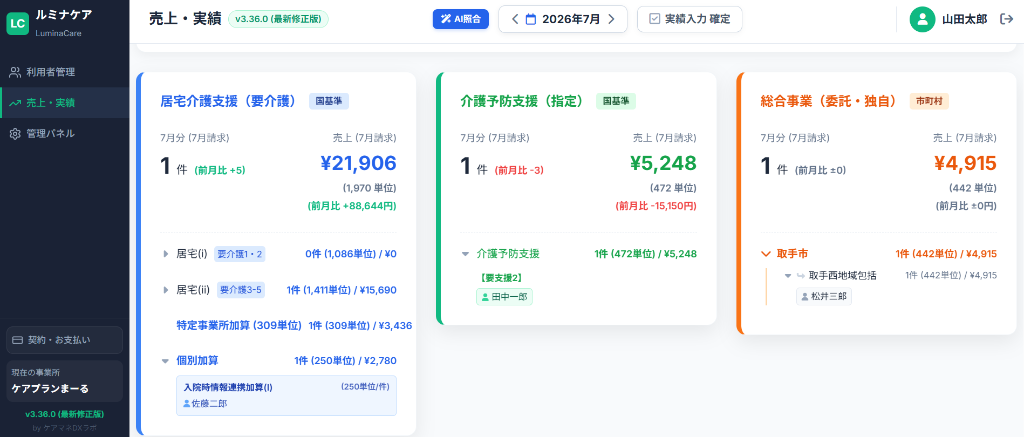
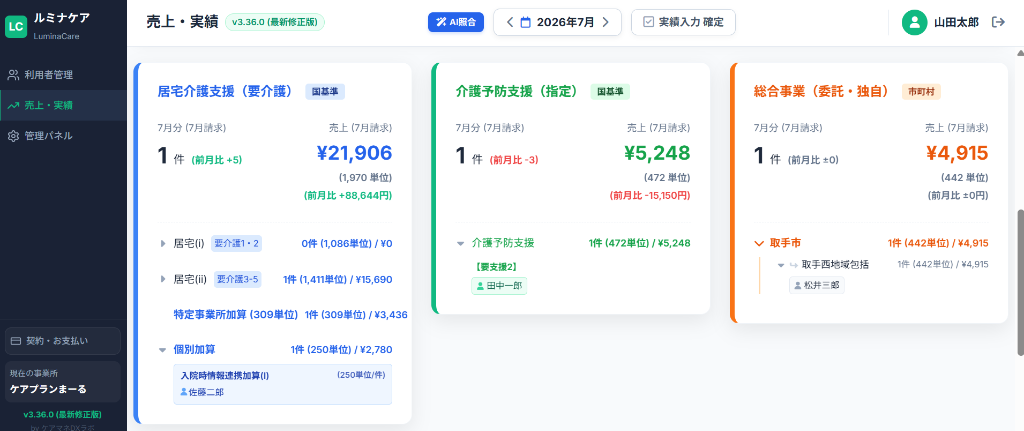
Use raw uploaded screenshots directly without any text captions or border decorations

diff --git a/index.html b/index.html
@@ -321,26 +321,8 @@
           <!-- Panel 0: Main UI (Client Management Dashboard v3.36.0 - Actual Screenshot) -->
           <div id="panel-main-ui" class="lumina-panel active">
             <div class="lumina-real-screenshot-container">
-              <div class="screenshot-header-bar">
-                <div class="window-dots">
-                  <span class="dot dot-red"></span>
-                  <span class="dot dot-yellow"></span>
-                  <span class="dot dot-green"></span>
-                </div>
-                <span class="window-title"><i class="fa-solid fa-desktop text-primary"></i> ルミナケア 利用者管理画面 (v3.36.0 by ケアマネDXラボ) - 実機UI</span>
-                <span class="badge-live-tag"><i class="fa-solid fa-circle text-success"></i> 実機画面</span>
-              </div>
               <div class="screenshot-img-wrapper">
-                <img src="lumina_dashboard.png" alt="ルミナケア 利用者管理画面 v3.36.0 実機スクリーンショット" class="lumina-real-img">
-              </div>
-              <div class="screenshot-caption">
-                <p><i class="fa-solid fa-circle-info text-primary"></i> <strong>ルミナケア 利用者管理画面 (v3.36.0) コア機能一覧:</strong></p>
-                <ul class="screenshot-caption-bullets">
-                  <li><strong>ステータス可視化:</strong> 「申請中」「今月迄」「有効」をカラーバッジで視覚的に判別</li>
-                  <li><strong>有効期間・目標期限アラート:</strong> 契約・認定有効期間の切れや短期目標期限（赤文字）を自動検知</li>
-                  <li><strong>加算・モニタリング直感管理:</strong> 入院時情報連携加算(I)や初回加算、モニタリング実施日を1画面で登録</li>
-                  <li><strong>請求・月遅れトラッキング:</strong> 通常請求 / 請求対象 / 月遅れ請求のステータス切替とワンタップ処理</li>
-                </ul>
+                <img src="lumina_dashboard.png" alt="ルミナケア 利用者管理画面 v3.36.0" class="lumina-real-img" style="width: 100%; display: block;">
               </div>
             </div>
           </div>
@@ -348,53 +330,9 @@
           <!-- Panel Sales: Real Sales & Performance UI Screenshot (v3.36.0) -->
           <div id="panel-sales" class="lumina-panel">
             <div class="lumina-real-screenshot-container">
-              <div class="screenshot-header-bar">
-                <div class="window-dots">
-                  <span class="dot dot-red"></span>
-                  <span class="dot dot-yellow"></span>
-                  <span class="dot dot-green"></span>
-                </div>
-                <span class="window-title"><i class="fa-solid fa-chart-line text-primary"></i> ルミナケア 売上・実績ダッシュボード (v3.36.0 by ケアマネDXラボ) - 実機UI</span>
-                <span class="badge-live-tag"><i class="fa-solid fa-circle text-success"></i> 実機画面</span>
-              </div>
-              
-              <!-- 2 Screenshots stacked seamlessly -->
-              <div class="screenshot-img-wrapper stacked" style="display: flex; flex-direction: column;">
-                <img src="lumina_sales_stats1.png" alt="ルミナケア 売上・実績画面 上部 (売上・請求件数・モニタリング)" class="lumina-real-img">
-                <img src="lumina_sales_stats2.png" alt="ルミナケア 売上・実績画面 下部 (居宅・予防・総合事業内訳)" class="lumina-real-img" style="border-top: 2px dashed rgba(255, 255, 255, 0.2);">
-              </div>
-
-              <!-- Comprehensive Function Explanation -->
-              <div class="screenshot-caption">
-                <h4 style="color: #38bdf8; font-size: 1.05rem; margin-bottom: 0.75rem;"><i class="fa-solid fa-chart-pie"></i> ルミナケア 売上・実績画面 (v3.36.0) の解説と主要機能ポイント</h4>
-                
-                <div class="sales-explain-grid">
-                  <div class="explain-card">
-                    <h5 style="color: #38bdf8; font-size: 0.95rem; margin-bottom: 0.3rem;"><i class="fa-solid fa-yen-sign text-primary"></i> 1. 売上実績・目標達成率サマリー</h5>
-                    <p style="font-size: 0.85rem; color: #cbd5e1; line-height: 1.6;">当月の確定売上（例: ¥27,154 / 年度累計 ¥40,731）、内訳（今月売上・月遅れ売上）、および<strong>処遇改善加算 (2.1%: ¥570)</strong>の自動計算金額をリアルタイム表示。設定した月次目標（¥800,000）に対する達成率（3%）をプログレスバーで可視化します。</p>
-                  </div>
-
-                  <div class="explain-card">
-                    <h5 style="color: #34d399; font-size: 0.95rem; margin-bottom: 0.3rem;"><i class="fa-solid fa-file-invoice text-success"></i> 2. 請求件数 & 月遅れ回収管理</h5>
-                    <p style="font-size: 0.85rem; color: #cbd5e1; line-height: 1.6;">当月の総請求件数（今月件数＋月遅れ件数）、新規獲得数・終了件数の増減推移を一目把握。過去に保留された未請求・返戻データを今月の売上にワンクリックで組み込める<strong>「月遅れ請求の回収管理」</strong>機能を搭載しています。</p>
-                  </div>
-
-                  <div class="explain-card">
-                    <h5 style="color: #fbbf24; font-size: 0.95rem; margin-bottom: 0.3rem;"><i class="fa-solid fa-clipboard-check text-warning"></i> 3. モニタリング進捗管理</h5>
-                    <p style="font-size: 0.85rem; color: #cbd5e1; line-height: 1.6;">今月モニタリング対象となる利用者数（例: 2件）と、完了（1件）・未完了（1件）の進捗状況（進捗率 50%）をリアルタイムに集計。訪問・モニタリングの漏れを未然に防ぎます。</p>
-                  </div>
-
-                  <div class="explain-card">
-                    <h5 style="color: #a855f7; font-size: 0.95rem; margin-bottom: 0.3rem;"><i class="fa-solid fa-diagram-project text-info"></i> 4. サービス別・事業別の単位数 & 売上内訳</h5>
-                    <p style="font-size: 0.85rem; color: #cbd5e1; line-height: 1.6;">国基準・市町村基準に基づき、サービス区分ごとに売上・単位数を自動分析：
-                      <ul style="margin-top: 0.3rem; padding-left: 1.2rem; font-size: 0.8rem;">
-                        <li><strong>居宅介護支援（要介護）:</strong> 居宅(i) / 居宅(ii)、特定事業所加算（309単位）、個別加算の内訳を自動集計</li>
-                        <li><strong>介護予防支援（指定）:</strong> 件数・前月比・単位数（472単位）の自動計算</li>
-                        <li><strong>総合事業（委託・独自）:</strong> 自治体ごとの基準に沿った実績・請求の独立集計</li>
-                      </ul>
-                    </p>
-                  </div>
-                </div>
+              <div class="screenshot-img-wrapper" style="display: flex; flex-direction: column;">
+                <img src="lumina_sales_stats1.png" alt="ルミナケア 売上・実績画面 上部" class="lumina-real-img" style="width: 100%; display: block;">
+                <img src="lumina_sales_stats2.png" alt="ルミナケア 売上・実績画面 下部" class="lumina-real-img" style="width: 100%; display: block;">
               </div>
             </div>
           </div>
